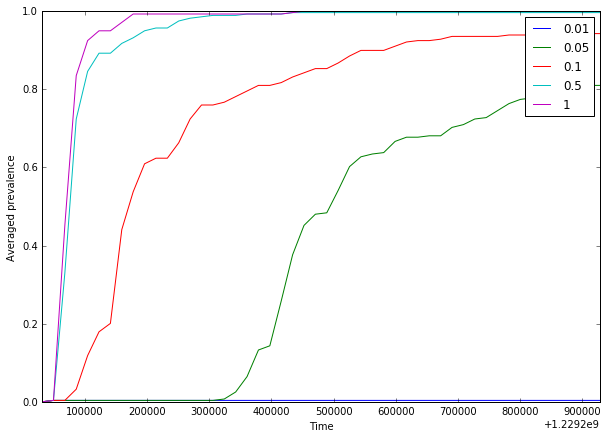
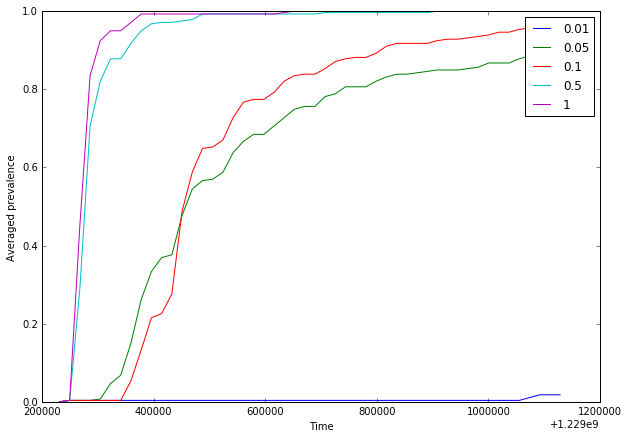
Add files via upload

diff --git a/SImodel.py b/SImodel.py
@@ -63,7 +63,7 @@ print("Anchorage infection time: ",infection.InfectionTime[41])
 #Task 2
 def averaged_prevalence_visualization(infection, start, end, p, label):
     stepsize = 50    
-    t = np.linspace(start, end, 50)
+    t = np.linspace(start, end, stepsize)  #To increase this stepsize
     p_t = np.zeros((stepsize,10), dtype=float)
     for k in range(0,10):
         for j in range (0,stepsize):
@@ -78,7 +78,6 @@ for p in (0.01, 0.05, 0.1, 0.5, 1):
     infection_p = infection_model(network, p,flights, start_node_0)
     averaged_prevalence_visualization(infection_p, start_time, end_time, p, p)
 plt.xlabel("Time")
-plt.xlim(start_time, end_time, 50)
 plt.ylabel("Averaged prevalence")
 plt.legend()
 plt.show()
